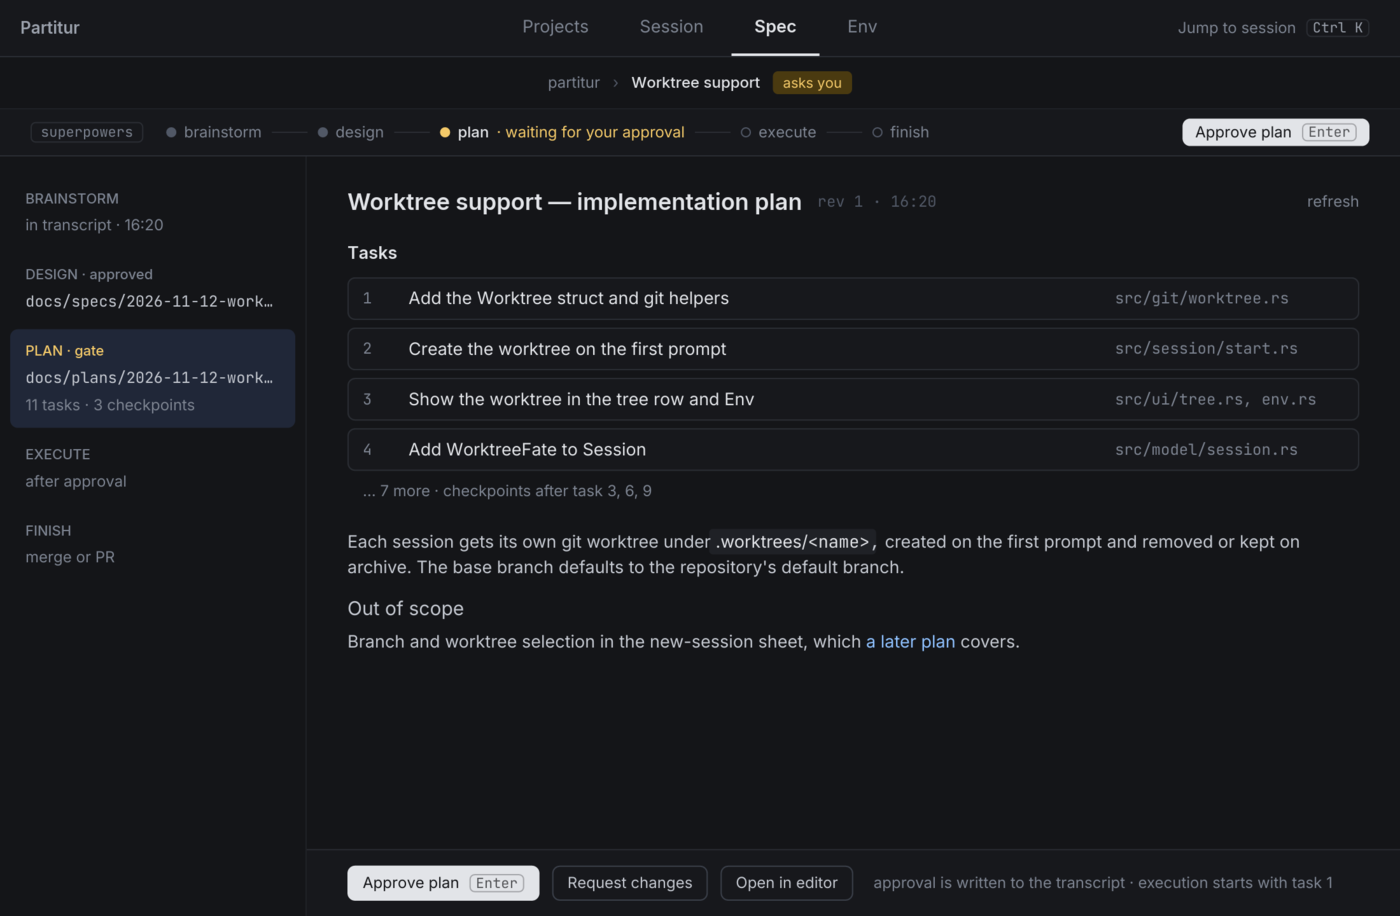
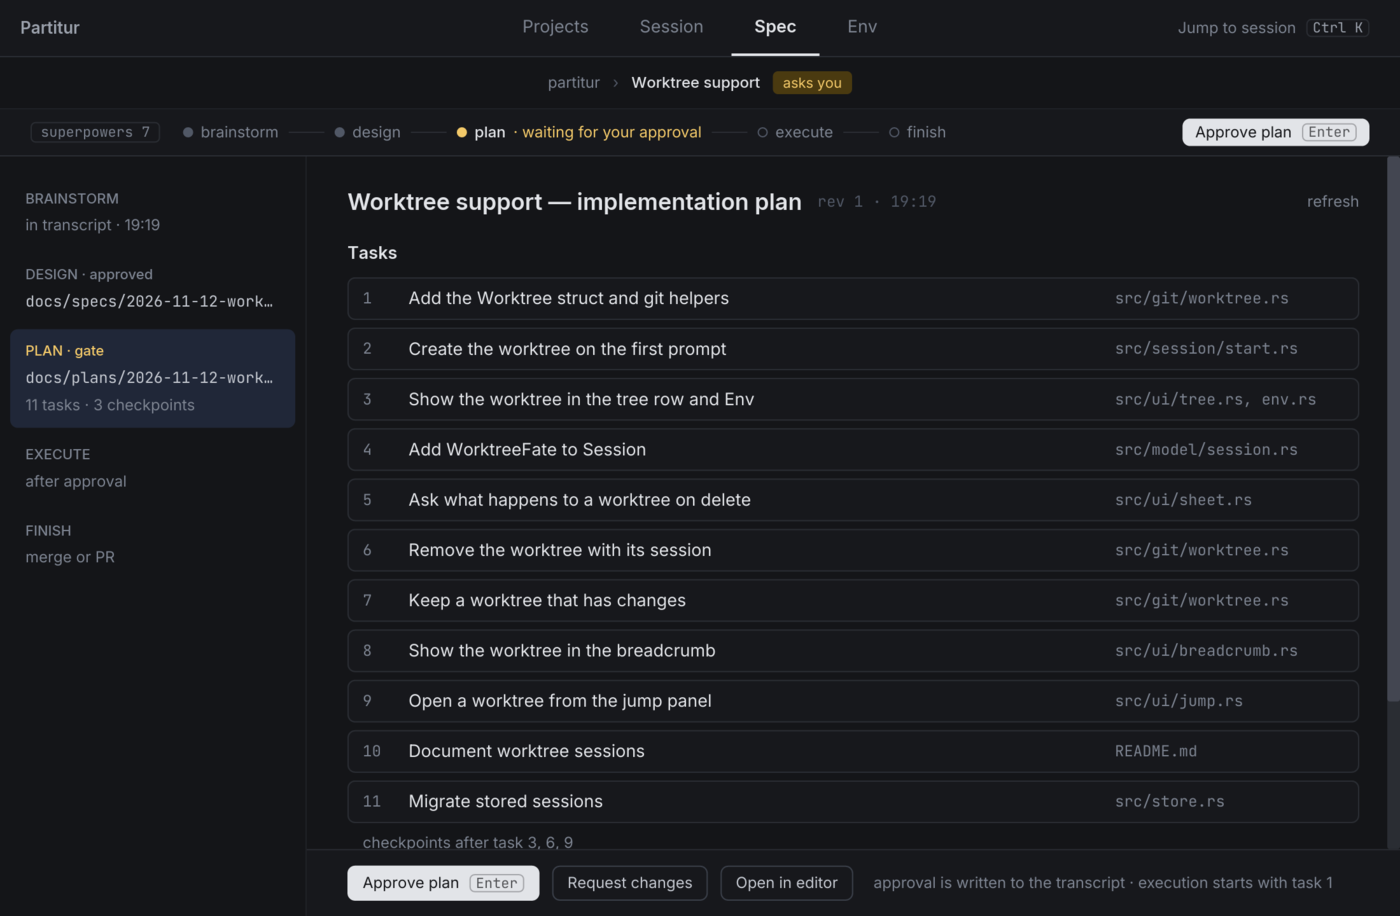
feat(core): name the workflow version on the chip
The rail chip and the tree's step cell before the first step now read
superpowers 7, so the version in use is visible. Docs and the README
spec screenshots follow.

diff --git a/crates/partitur-iced/src/flow.rs b/crates/partitur-iced/src/flow.rs
@@ -618,7 +618,7 @@ mod tests {
         );
 
         let mut ui = simulator(view(state));
-        ui.find("superpowers").unwrap();
+        ui.find("superpowers 7").unwrap();
         for step in ["brainstorm", "design", "plan", "execute", "finish"] {
             ui.find(step).unwrap();
         }
@@ -732,11 +732,11 @@ mod tests {
 
         let mut ui = simulator(view(&fixture.state));
 
-        assert!(ui.find("superpowers").is_err());
+        assert!(ui.find("superpowers 7").is_err());
         drop(ui);
         fixture.state.tab = Tab::Env;
         let mut ui = simulator(view(&fixture.state));
-        assert!(ui.find("superpowers").is_err());
+        assert!(ui.find("superpowers 7").is_err());
     }
 
     #[test]
@@ -957,7 +957,7 @@ mod tests {
 
         let mut ui = simulator(view(&fixture.state));
 
-        ui.find("superpowers").unwrap();
+        ui.find("superpowers 7").unwrap();
         ui.find("· waiting for your approval").unwrap();
         ui.click("Approve plan").unwrap();
         let messages: Vec<Message> = ui.into_messages().collect();

diff --git a/crates/partitur-core/src/workflow/superpowers_v7/display.rs b/crates/partitur-core/src/workflow/superpowers_v7/display.rs
@@ -1,6 +1,6 @@
 //! The superpowers workflow's display data, in the wording every view shares.
 //!
-//! The rail names the workflow `superpowers` and shows its five steps. The current step adds
+//! The rail names the workflow `superpowers 7` and shows its five steps. The current step adds
 //! the plan's size while planning, the task being worked on while executing and the outcome
 //! once finished. A click on brainstorm or design opens the design, a click on a later step
 //! the plan. While a gate waits, the rail's right side holds the button that approves it;
@@ -402,7 +402,7 @@ mod tests {
     fn the_rail_marks_steps_around_the_current_one() {
         let view = rail(&executing(), None);
 
-        assert_eq!(view.chip, "superpowers");
+        assert_eq!(view.chip, "superpowers 7");
         let some = |text: &str| Some(text.to_owned());
         assert_eq!(
             plain(&view.steps),

diff --git a/crates/partitur-core/src/workflow/tests.rs b/crates/partitur-core/src/workflow/tests.rs
@@ -301,12 +301,12 @@ fn dispatch_reaches_the_module_of_the_status_and_the_event() {
         CHECKPOINT_REACHED
     );
     assert_eq!(tool_answer(&Event::StartWritingPlan.into()), RECORDED);
-    assert_eq!(ModuleId::SuperpowersV7.chip(), "superpowers");
+    assert_eq!(ModuleId::SuperpowersV7.chip(), "superpowers 7");
 
     let reported = WorkflowEvent::from(event);
     let status = apply(None, &reported, 3);
     let (rail, outline, documents, gate) = view(&status);
-    assert_eq!(rail.chip, "superpowers");
+    assert_eq!(rail.chip, "superpowers 7");
     assert_eq!(outline.len(), 5);
     assert_eq!(documents.len(), 2);
     assert_eq!(

diff --git a/crates/partitur-iced/src/flow_rail.rs b/crates/partitur-iced/src/flow_rail.rs
@@ -4,7 +4,7 @@
 //! one-pixel line.
 //!
 //! The rail draws the workflow's display data and knows no workflow of its own. At the left
-//! a chip names the workflow (such as `superpowers`). Then come its steps, each a dot and a
+//! a chip names the workflow (such as `superpowers 7`). Then come its steps, each a dot and a
 //! label, joined by short lines. A step before the current one has a dim dot and a muted
 //! label; the current step has a dot in the text colour, a label at medium weight and, where
 //! the workflow gives one, a muted detail after `·`. A step after it has a hollow dot.

diff --git a/crates/partitur-core/src/workflow/superpowers_v7/tests.rs b/crates/partitur-core/src/workflow/superpowers_v7/tests.rs
@@ -284,7 +284,7 @@ fn rebuild_folds_every_event_and_nothing_yields_none() {
 #[test]
 fn step_labels_follow_the_tree_wording() {
     let label = |state: &State| step_label(state, None);
-    assert_eq!(label(&state_with(None)), "superpowers");
+    assert_eq!(label(&state_with(None)), "superpowers 7");
     assert_eq!(label(&state_with(Some(Step::Brainstorm))), "brainstorm");
     assert_eq!(label(&state_with(Some(Step::Design))), "design");
     assert_eq!(label(&state_with(Some(Step::Plan))), "plan");

diff --git a/crates/partitur-core/src/workflow.rs b/crates/partitur-core/src/workflow.rs
@@ -63,7 +63,7 @@ impl ModuleId {
     #[must_use]
     pub fn chip(self) -> &'static str {
         match self {
-            Self::SuperpowersV7 => "superpowers",
+            Self::SuperpowersV7 => "superpowers 7",
         }
     }
 }

diff --git a/docs/workflows.md b/docs/workflows.md
@@ -56,7 +56,7 @@ the session still waits for you, and is rebuilt from the history the first time 
 ## The flow rail
 
 Under the breadcrumb of the Session, Spec and Env tabs, a session that reports shows a
-rail: a `superpowers` chip and the five steps `brainstorm`, `design`, `plan`, `execute` and
+rail: a `superpowers 7` chip and the five steps `brainstorm`, `design`, `plan`, `execute` and
 `finish`. Steps before the current one are dimmed and steps after it are hollow. The current
 step may carry a detail: the plan's size, the task being worked on (`execute · 4/11`) or the
 outcome. Clicking a step shows its document on the Spec tab.
@@ -102,7 +102,7 @@ or `refactor` pill and the agent's note. Every other report is a small `step` ro
 ## In the tree
 
 A session that reports has a step column in its row: a dot and the step in words
-(`brainstorm`, `design · gate`, `plan · gate`, `execute · 4/11`, `execute · checkpoint`,
+(`superpowers 7` before the first step, then `brainstorm`, `design · gate`, `plan · gate`, `execute · 4/11`, `execute · checkpoint`,
 `finish · merged`). The dot is amber while a gate waits, bright while the session runs and dim
 otherwise. The status line on the Projects tab counts the sessions at a gate on their own, as
 `N gates waiting`, apart from the other sessions that ask you.
